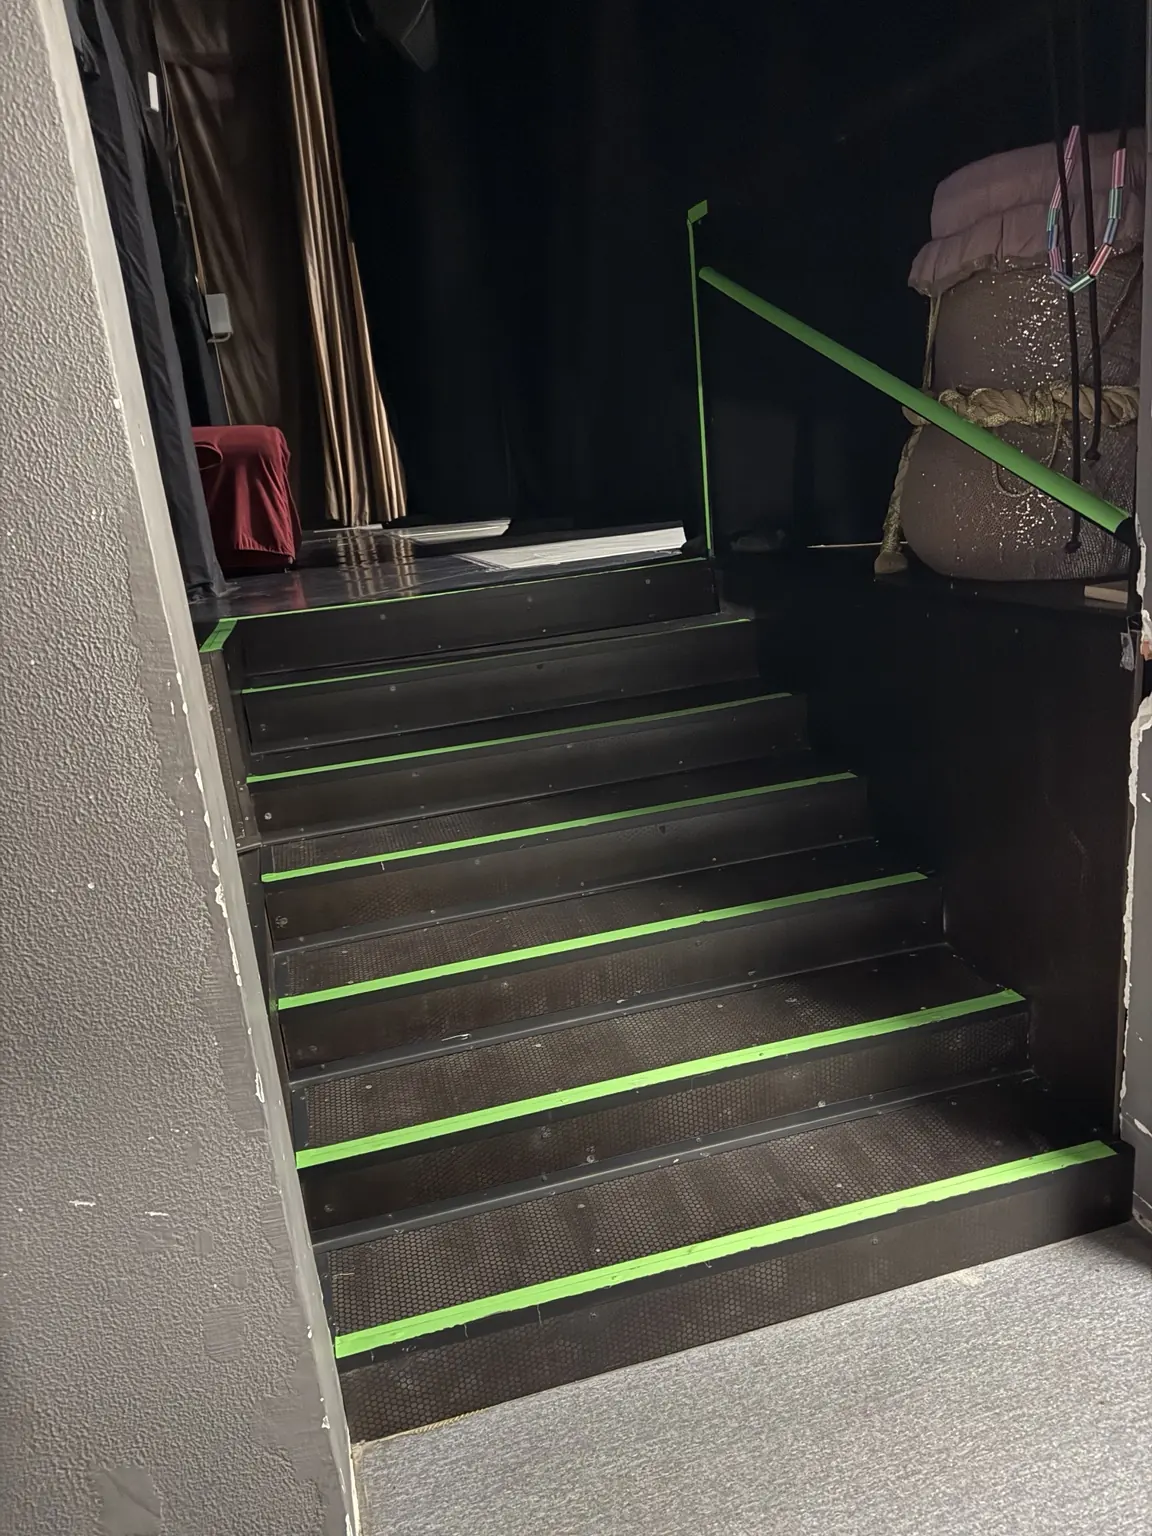
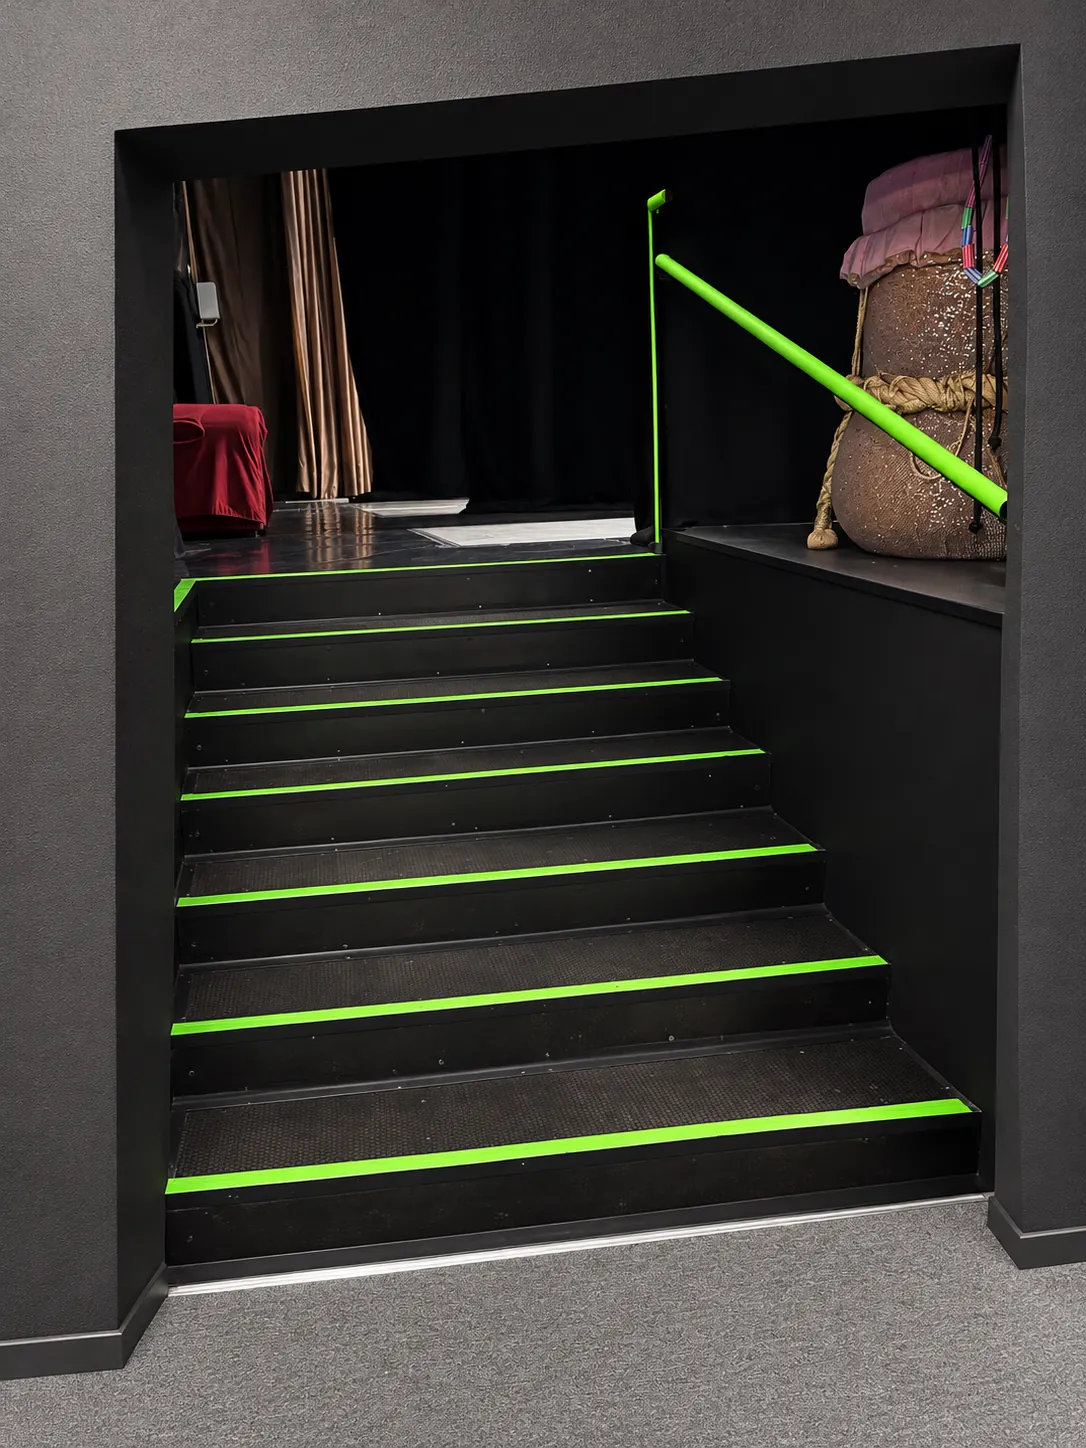
Add measured stage plan and cleaned left/right stair photos

diff --git a/stage.html b/stage.html
@@ -38,6 +38,13 @@ footer{border-top:1px solid rgba(255,255,255,.08);padding:26px 0 32px;color:#879
 .lightbox p{position:absolute;bottom:9px;color:#d2d6dc;font-size:12px;margin:0;max-width:90%;text-align:center}
 @media(max-width:760px){header{min-height:auto}.brand{font-size:12px}.intro{padding:30px 0 21px}.gallery{grid-template-columns:repeat(2,minmax(0,1fr));gap:11px}.access{gap:11px}.photo{border-radius:11px}.photo figcaption{font-size:11px;line-height:1.35;padding:10px 11px}.gallery .photo:first-child{grid-column:1/-1}.gallery .photo img{aspect-ratio:1.15}.gallery .photo:first-child img{aspect-ratio:1.65}.access .photo img{aspect-ratio:.8}.section-heading{margin:27px 0 12px}.pill{padding:11px 14px;font-size:10px}}
 @media(prefers-reduced-motion:reduce){.photo img{transition:none}}
+
+.plan-section{margin:36px 0 32px}
+.plan-preview{margin:0;overflow:hidden;background:#0c1117;border:1px solid #34424c;border-radius:16px}
+.plan-preview a{display:block}
+.plan-preview img{display:block;width:100%;height:auto;transition:filter .22s ease}
+.plan-preview a:hover img{filter:brightness(1.15)}
+.plan-preview figcaption{padding:11px 17px 14px;color:#bdc7d1;font-size:12px}
 </style>
 </head>
 <body>
@@ -46,6 +53,8 @@ footer{border-top:1px solid rgba(255,255,255,.08);padding:26px 0 32px;color:#879
 <main>
 <section class="intro"><p class="eyebrow">Театр TODES / Техническая информация</p><h1>Сцена</h1><p class="lead">Фотографии сценического пространства, зрительного зала и проходов на сцену. Нажми на фотографию для увеличения.</p></section>
 <figure class="photo hero"><button type="button" data-src="stage/stage-front.webp" data-caption="Общий вид сцены из зрительного зала" aria-label="Увеличить: общий вид сцены"><img src="stage/stage-front.webp" alt="Общий вид сцены из зрительного зала" fetchpriority="high" decoding="async"></button><figcaption>Общий вид сцены из зрительного зала</figcaption></figure>
+
+<section class="plan-section" aria-label="План сцены"><h2 class="section-heading">Stage Plan — план сцены</h2><figure class="plan-preview"><a href="stage/stage-plan.svg" target="_blank" rel="noopener" title="Открыть план в полном размере"><img src="stage/stage-plan.svg" alt="План сцены TODES: семь экранов, четыре лестницы и размеры по схеме" loading="lazy" decoding="async"></a><figcaption>Вид сверху · размеры в метрах · схема не в масштабе. Нажми для увеличения.</figcaption></figure></section>
 <h2 class="section-heading">Сценическое пространство</h2>
 <section class="gallery" aria-label="Фотографии сценического пространства">
 <figure class="photo"><button type="button" data-src="stage/stage-angle-left.webp" data-caption="Вид сцены слева" aria-label="Увеличить фото сцены слева"><img src="stage/stage-angle-left.webp" alt="Сцена со стороны левого сектора зрительного зала" loading="lazy" decoding="async"></button><figcaption>Сцена — вид слева</figcaption></figure>
@@ -54,8 +63,8 @@ footer{border-top:1px solid rgba(255,255,255,.08);padding:26px 0 32px;color:#879
 </section>
 <h2 class="section-heading">Проходы на сцену</h2>
 <section class="access" aria-label="Проходы и лестницы">
-<figure class="photo"><button type="button" data-src="stage/stage-access-1.webp" data-caption="Левый подъём на сцену" aria-label="Увеличить фото левого подъёма на сцену"><img src="stage/stage-access-1.webp" alt="Левый подъём на сцену, ступени с зелёной маркировкой" loading="lazy" decoding="async"></button><figcaption>Левый подъём на сцену</figcaption></figure>
-<figure class="photo"><button type="button" data-src="stage/stage-access-2.webp" data-caption="Правый подъём на сцену" aria-label="Увеличить фото правого подъёма на сцену"><img src="stage/stage-access-2.webp" alt="Правый подъём на сцену, лестница" loading="lazy" decoding="async"></button><figcaption>Правый подъём на сцену</figcaption></figure>
+<figure class="photo"><button type="button" data-src="stage/stage-access-1.webp?v=20261118-clean" data-caption="Левый подъём на сцену" aria-label="Увеличить фото левого подъёма на сцену"><img src="stage/stage-access-1.webp?v=20261118-clean" alt="Левый подъём на сцену, ступени с зелёной маркировкой" loading="lazy" decoding="async"></button><figcaption>Левый подъём на сцену</figcaption></figure>
+<figure class="photo"><button type="button" data-src="stage/stage-access-2.webp?v=20261118-clean" data-caption="Правый подъём на сцену" aria-label="Увеличить фото правого подъёма на сцену"><img src="stage/stage-access-2.webp?v=20261118-clean" alt="Правый подъём на сцену, лестница" loading="lazy" decoding="async"></button><figcaption>Правый подъём на сцену</figcaption></figure>
 </section>
 </main>
 <footer>© TODESPRODUCTION 2026</footer>
